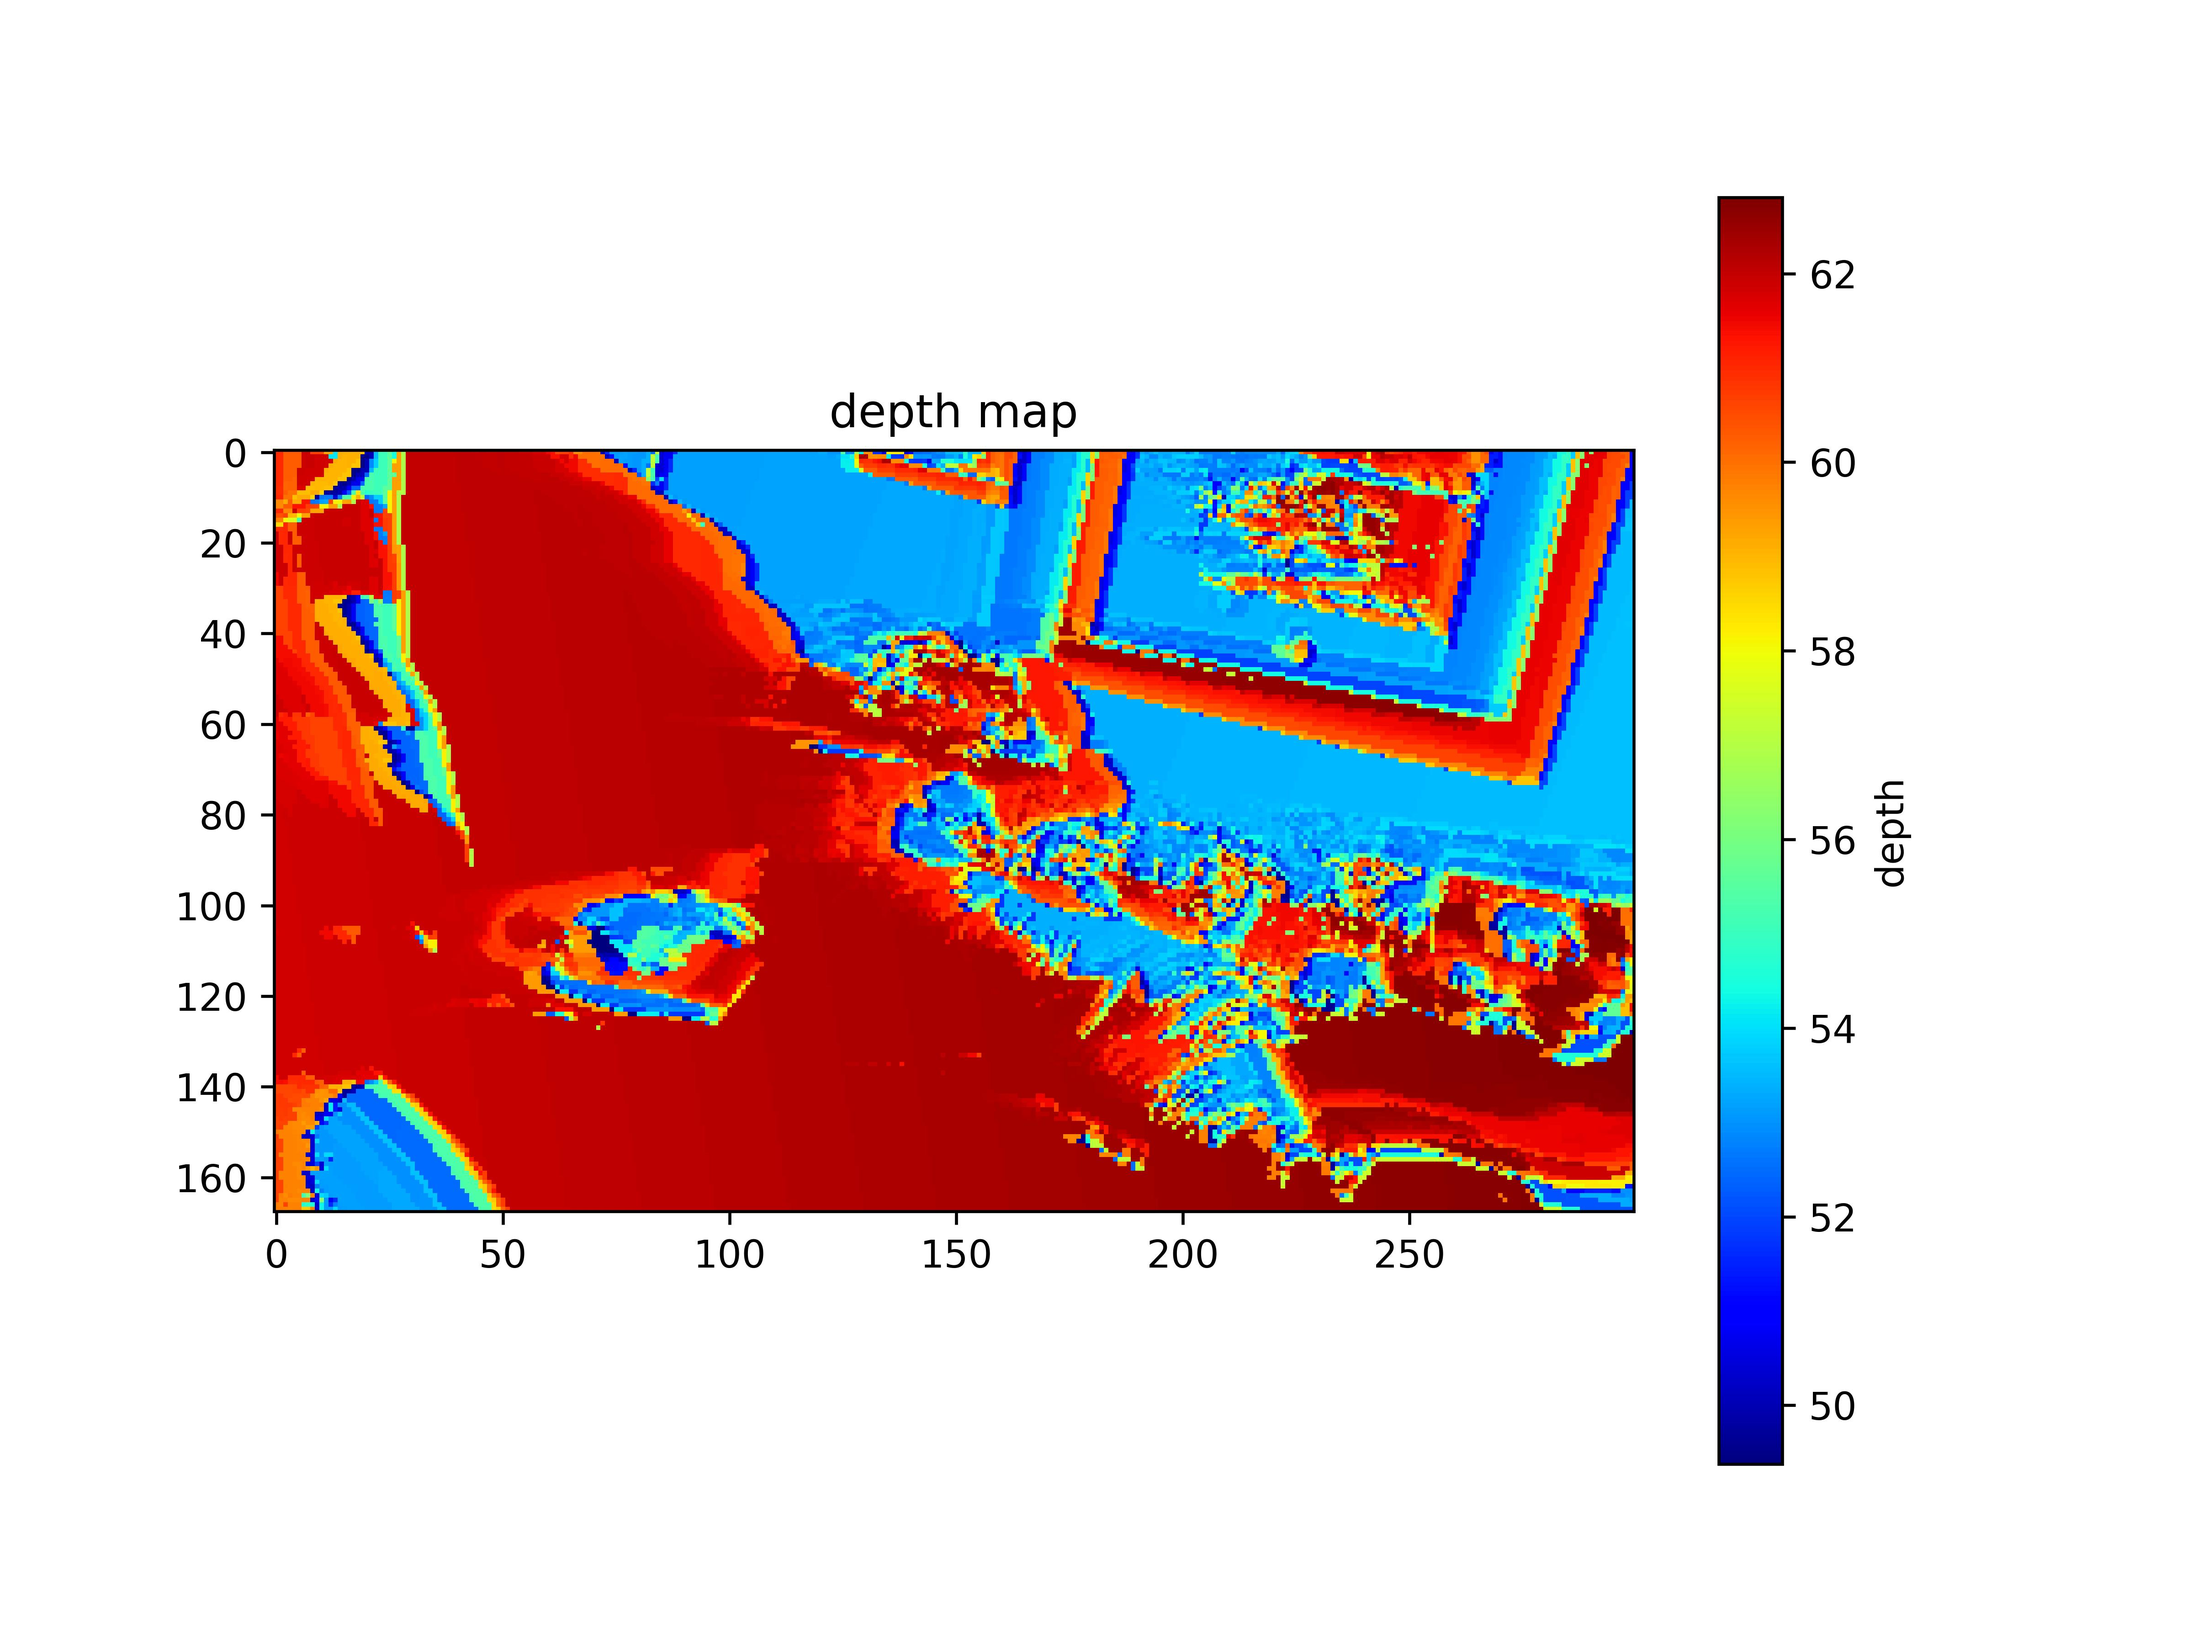
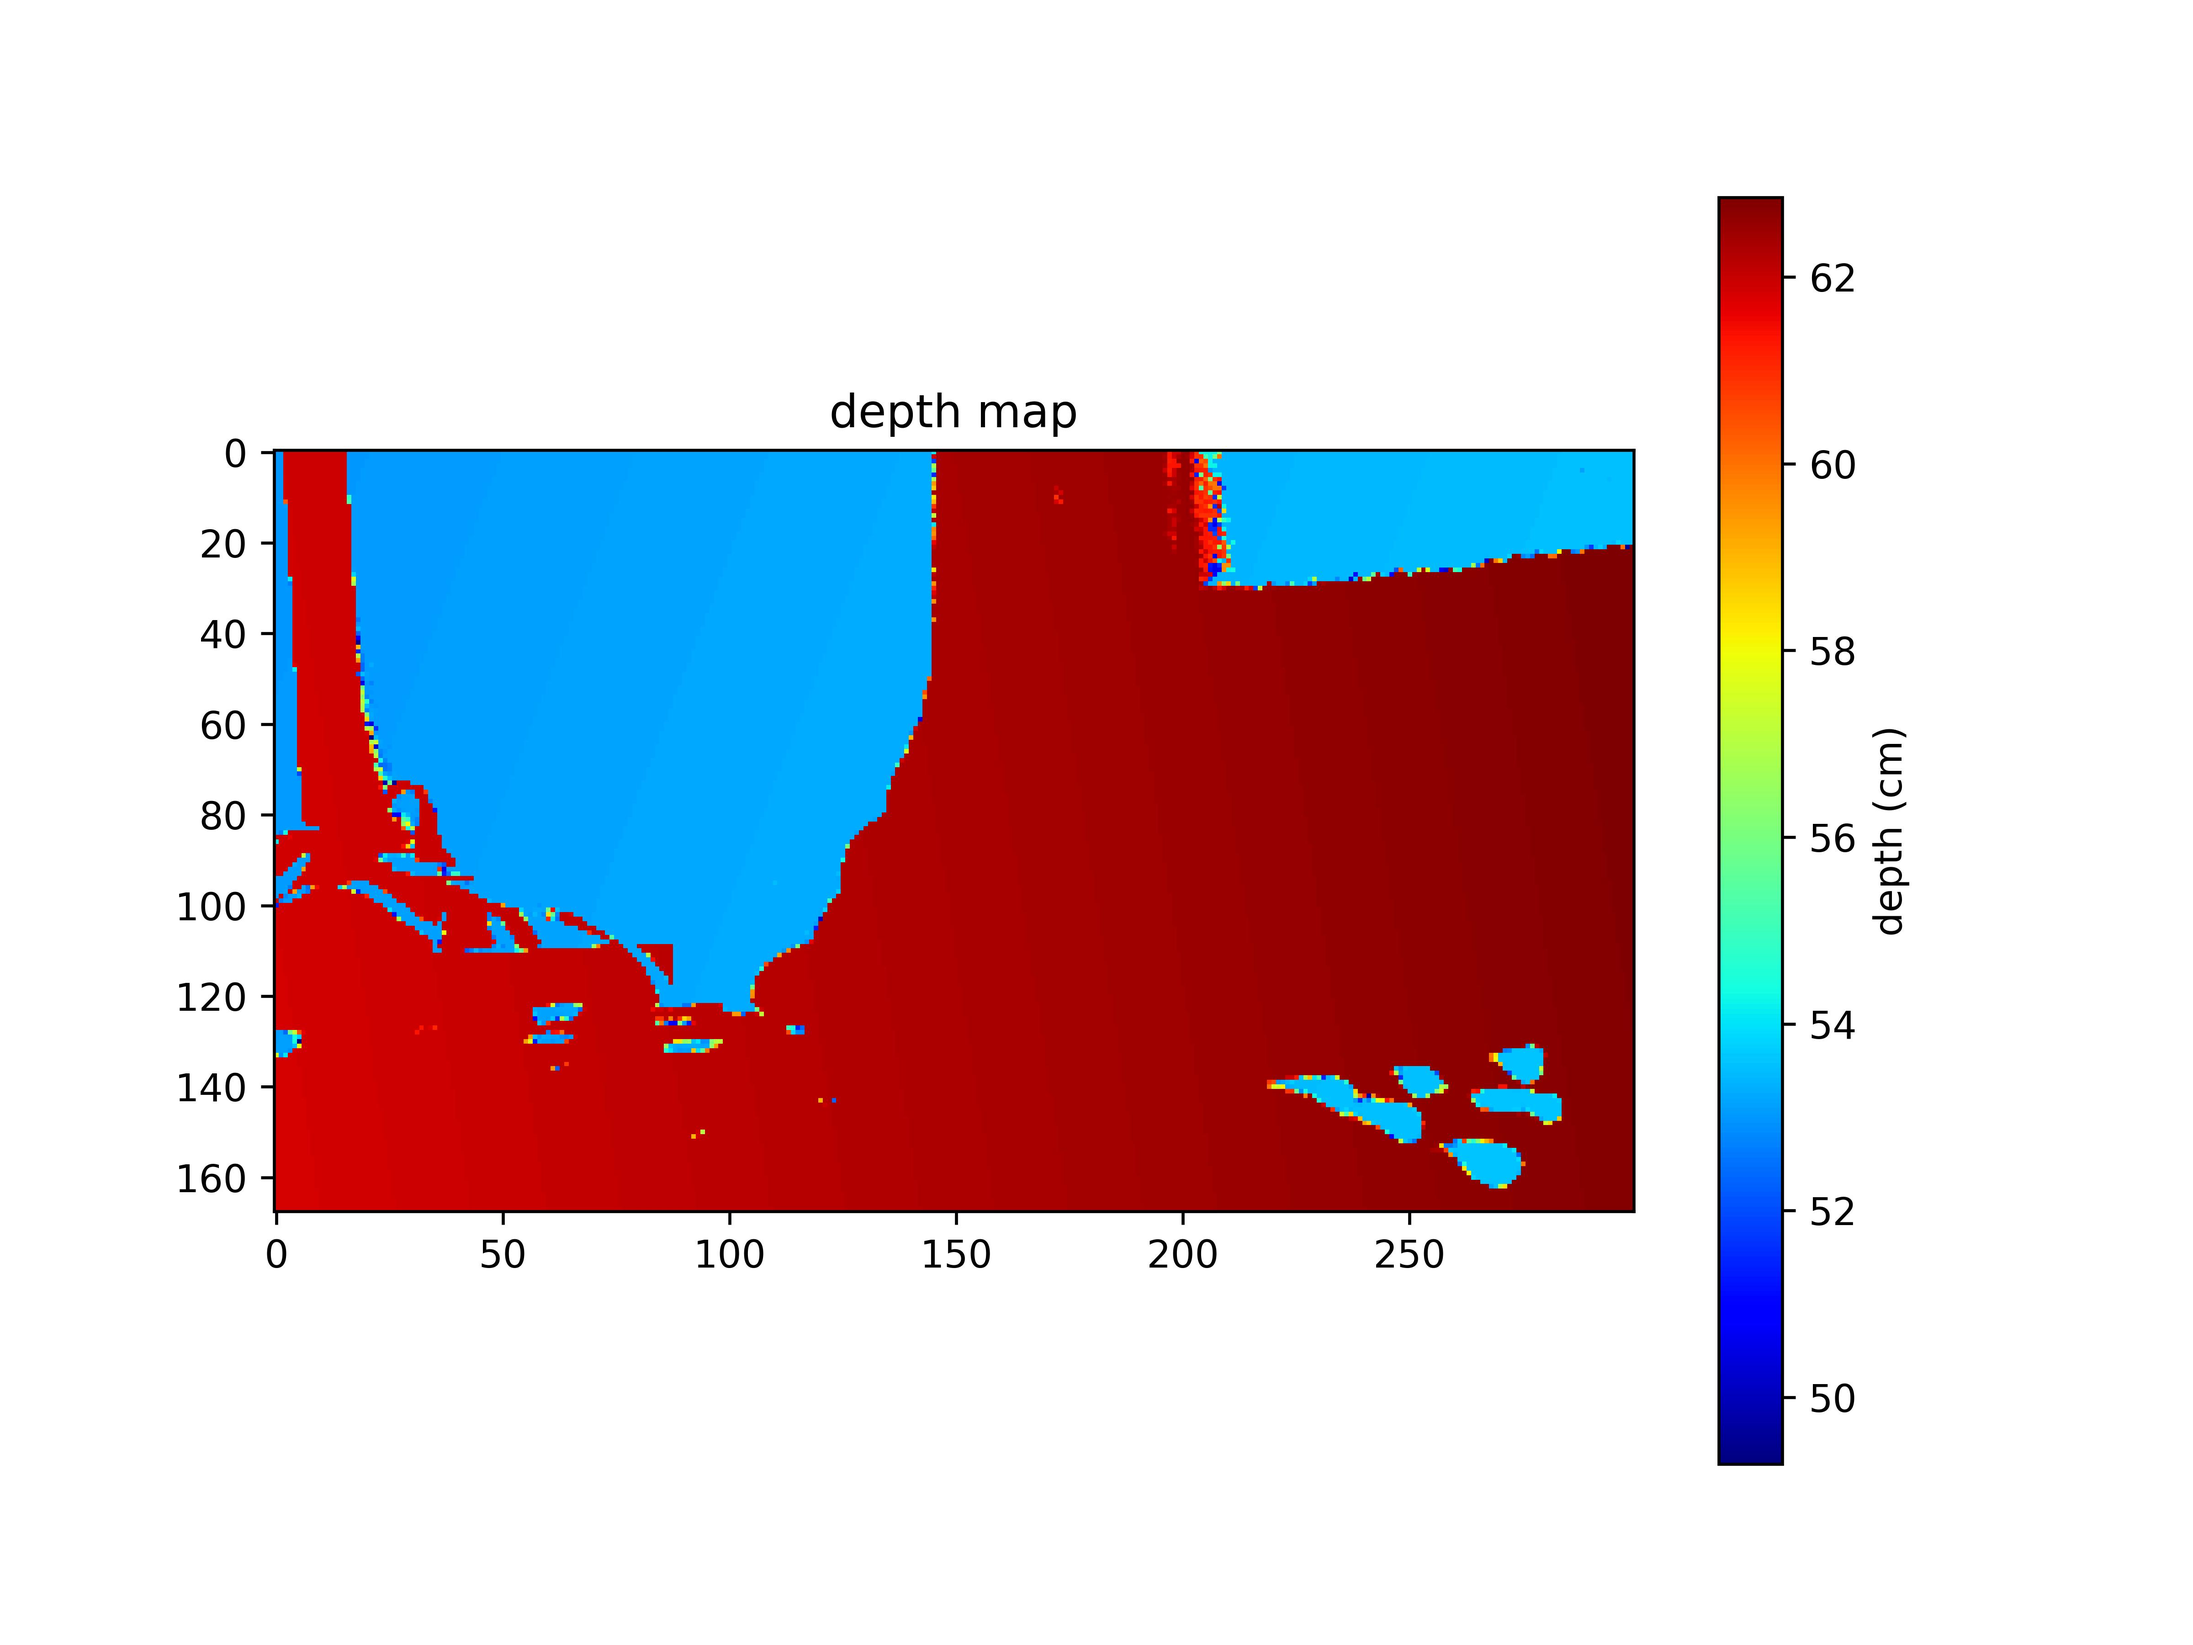
added save plot button

diff --git a/auto_ui.py b/auto_ui.py
@@ -7,6 +7,7 @@ import os
 import time
 from depth_map import calculate_depth_map
 import threading
+from tkinter import messagebox
 
 class SimpleVideoImageDisplayApp:
     def __init__(self, root, filename):
@@ -15,8 +16,7 @@ class SimpleVideoImageDisplayApp:
 
         self.filename = filename
 
-        #locks
-        self.graycode_lock = threading.Lock()
+        #events
         self.process_event = threading.Event()
         self.stop_event = threading.Event()
 
@@ -33,6 +33,33 @@ class SimpleVideoImageDisplayApp:
 
         self.image_panel = tk.Label(root, **frame_style)
         self.image_panel.grid(row=1, column=1, sticky="nsew", padx=20, pady=20)
+
+        #adding a button
+        self.button = tk.Button(root,
+                           text="Save Plot",
+                           command=self.button_clicked,
+                           activebackground="green",
+                           activeforeground="white",
+                           anchor="center",
+                           bd=3,
+                           bg="lightgray",
+                           cursor="hand2",
+                           disabledforeground="gray",
+                           fg="black",
+                           font=("Arial", 12),
+                           height=2,
+                           highlightbackground="black",
+                           highlightcolor="green",
+                           highlightthickness=2,
+                           justify="center",
+                           overrelief="raised",
+                           padx=10,
+                           pady=5,
+                           width=15,
+                           wraplength=100)
+
+        self.button.grid(row=2, column=1, sticky="se", padx=20, pady=20)
+
 
         # Adding titles
         self.video_title = tk.Label(root, text="Video", font=title_font, bg=title_bg, fg=title_fg)
@@ -61,8 +88,6 @@ class SimpleVideoImageDisplayApp:
         # Start threads
         self.capture_thread.start()
         self.process_thread.start()
-
-
 
 
 
@@ -121,13 +146,27 @@ class SimpleVideoImageDisplayApp:
                 self.load_image()
                 self.process_event.clear()
 
+    def button_clicked(self):
+
+        img = Image.open(self.image_path)
+        user_dir = os.path.expanduser("~")
+        save_path = os.path.join(user_dir, f"Downloads/SavedPlot_{time.time()}.jpg")
+
+
+        try:
+            img.save(save_path, "JPEG")
+            messagebox.showinfo("Success", f"Plot saved at:\n{save_path}")
+
+        except Exception as e:
+            # Show an error message if something goes wrong
+            messagebox.showerror("Error", f"Could not save Plot:\n{str(e)}")
 
 
 def main():
     filename = "PHOTOS"
 
     root = tk.Tk()
-    root.geometry("1280x500")  # Adjust the size of the window as needed
+    root.geometry("1280x600")  # Adjust the size of the window as needed
     app = SimpleVideoImageDisplayApp(root, filename)
 
     root.mainloop()

diff --git a/depth_map.py b/depth_map.py
@@ -95,12 +95,12 @@ def calculate_depth_map(files):
 
     points = triangulate_points(hori, veri, cam_mtx, proj_mtx, R, T)
 
-    #for multithreading
+
     depth_map = points[:, :, 2]
 
     plt.figure(figsize=(8, 6))
     plt.imshow(depth_map, cmap='jet', interpolation='nearest')
-    plt.colorbar(label="depth")
+    plt.colorbar(label="depth (cm)")
     plt.title("depth map")
     plt.savefig("depth_map_output.jpg", dpi = 600)
     plt.close()
